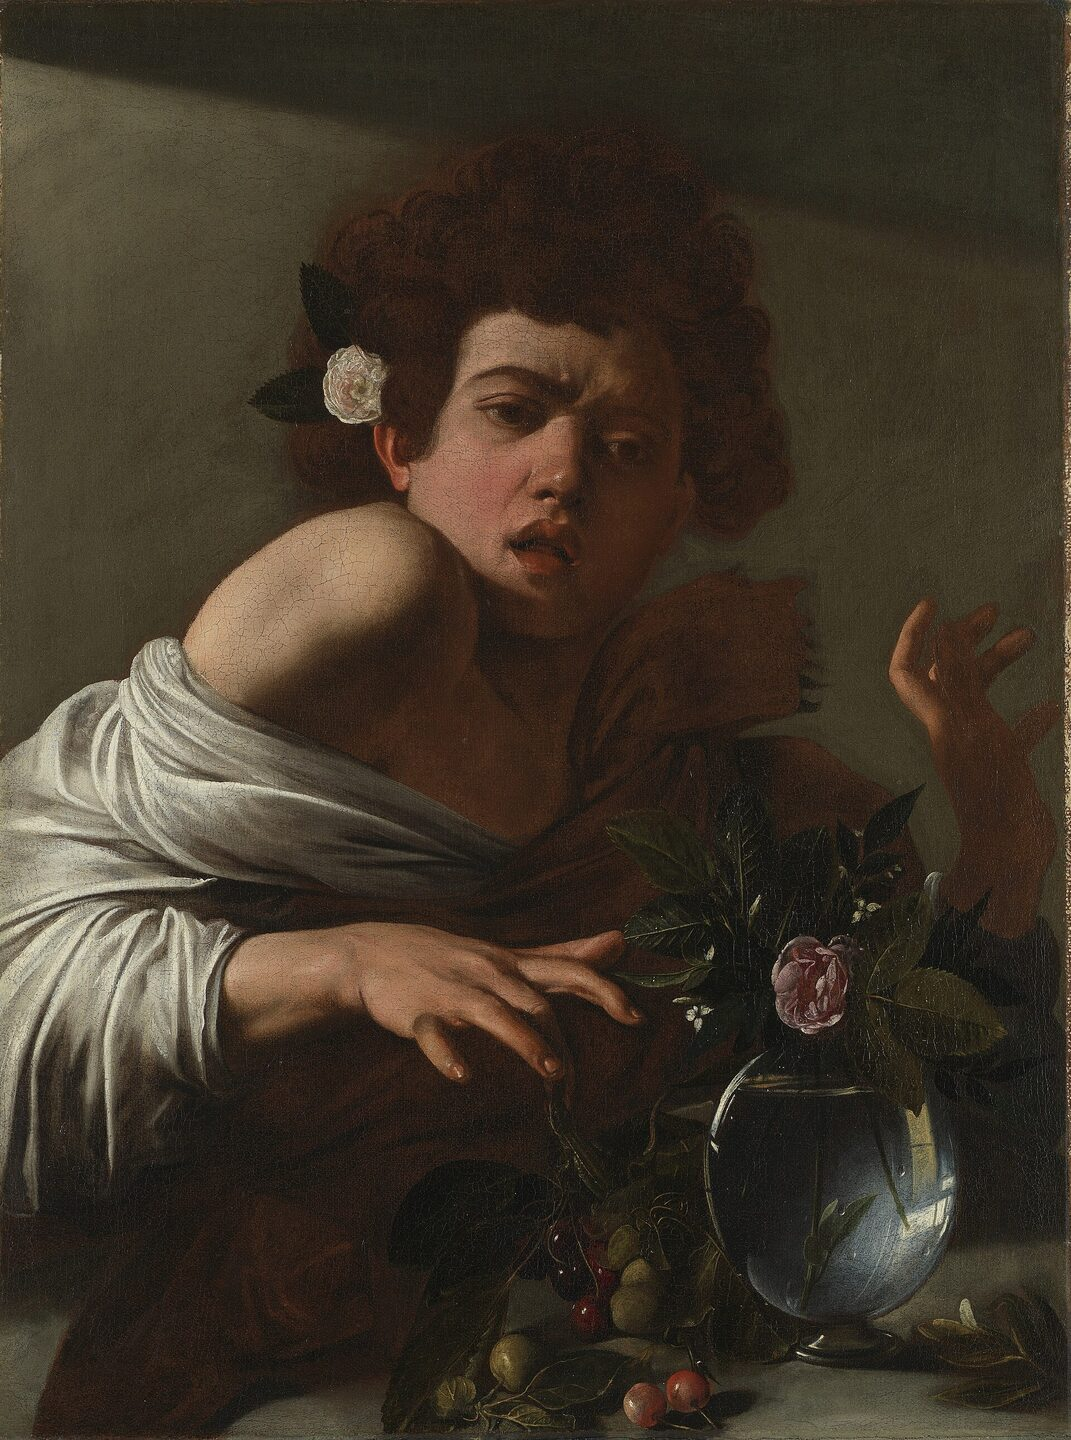
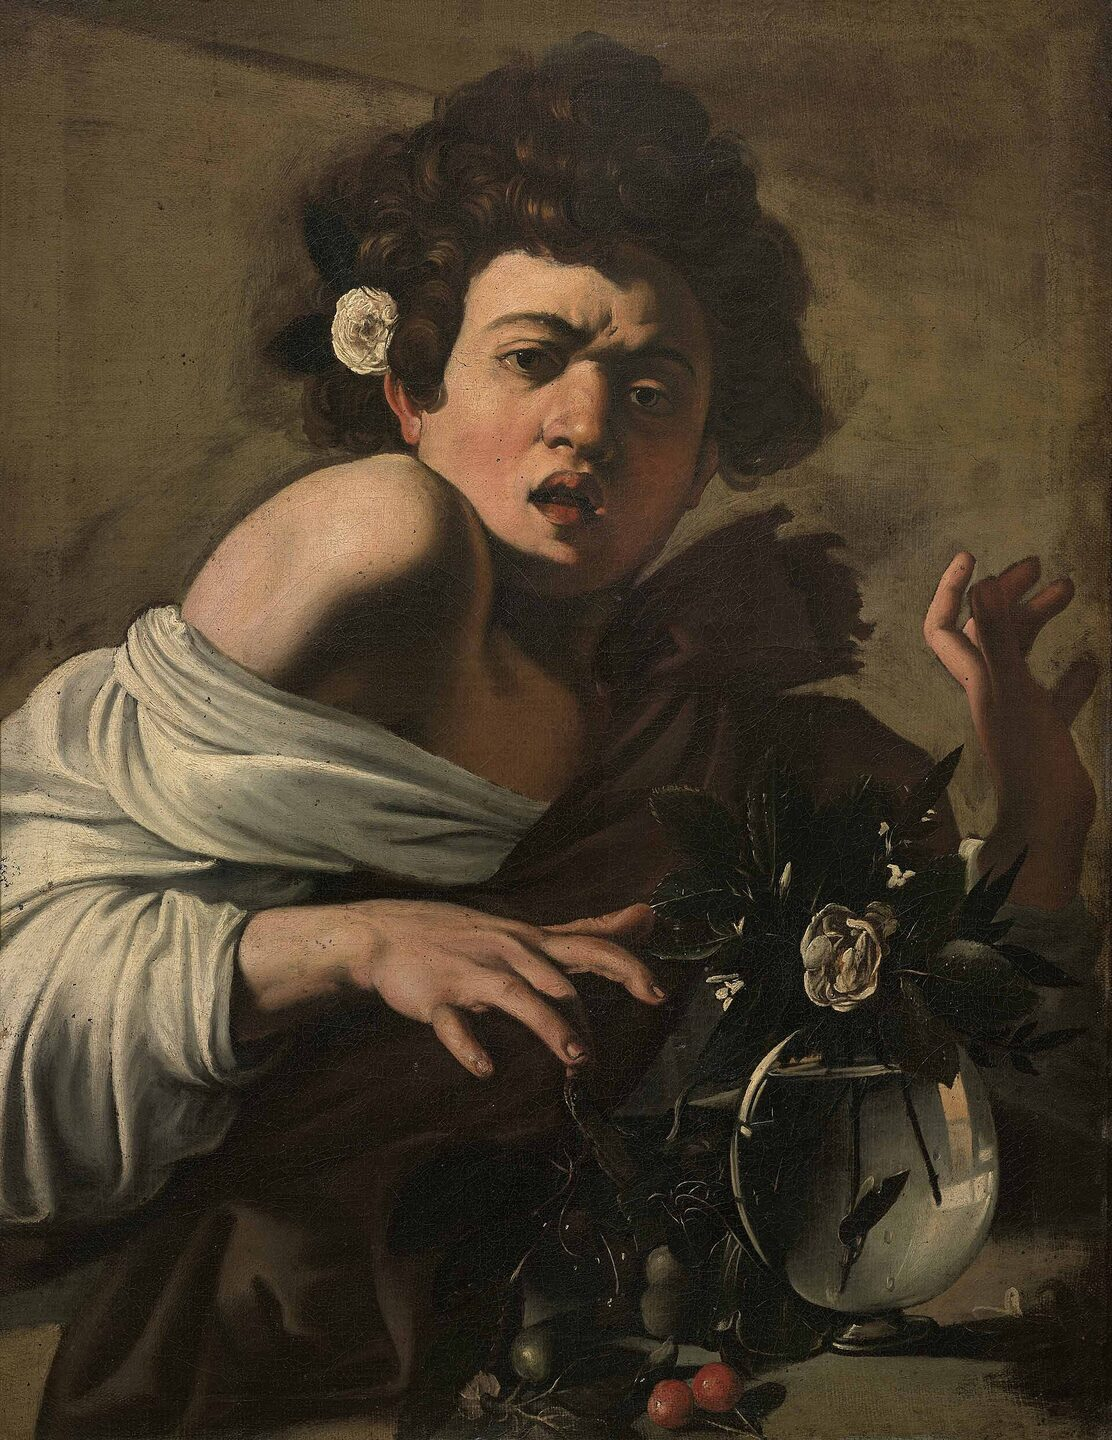
Show the Florence version of the Boy Bitten by a Lizard instead
The Fondazione Longhi picture is lighter and sets the figure more
sharply against the wall than the photograph of the London version.

Claude-Session: https://claude.ai/code/session_01NakLxsyEDpKwLBn4kWx6L2

diff --git a/tuebingen/sitzung-02.html b/tuebingen/sitzung-02.html
@@ -14,7 +14,7 @@
 
   <section data-background-image="../img/kunst-caravaggio-eidechse.jpg" data-background-size="contain" data-background-color="#000000">
     <aside class="notes">
-      Caravaggio, Knabe, von einer Eidechse gebissen, um 1594–95, London, National Gallery. Bild: Wikimedia Commons, gemeinfrei.
+      Caravaggio, Knabe, von einer Eidechse gebissen, um 1594–96, Florenz, Fondazione Roberto Longhi. Bild: Wikimedia Commons, gemeinfrei.
     </aside>
   </section>
 
